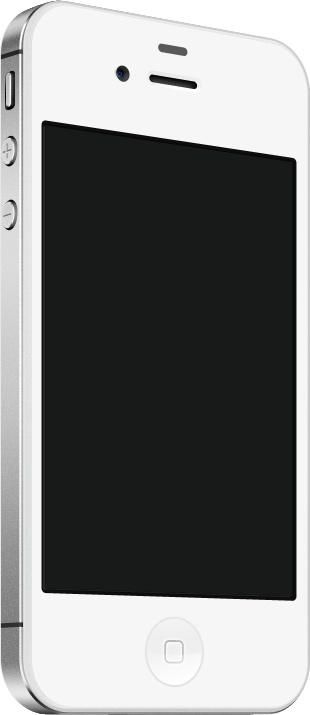
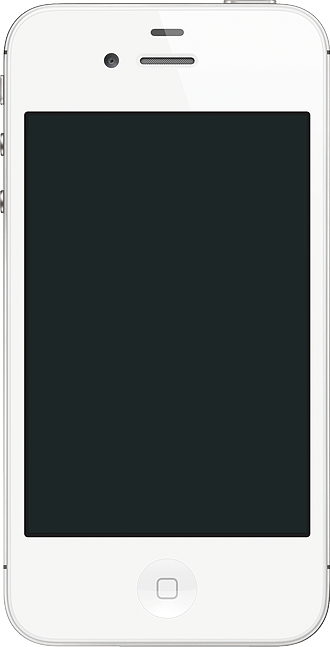
Changed iPhone image to a head-on shot

diff --git a/static/css/homepage.css b/static/css/homepage.css
@@ -22,11 +22,8 @@
     position: relative;
     background-repeat: no-repeat;
     float: left;
-    width: 310px;
+    width: 330px;
     height: 675px; /* iPhone graphic is 715px tall */
-    -o-perspective: 600px;
-    -moz-perspective: 600px;
-    -webkit-perspective: 600px;
     perspective: 600px;
     overflow: hidden;
     cursor: pointer;
@@ -37,23 +34,16 @@
     background-repeat: no-repeat;
     top: 0;
     left: 0;
-    width: 310px;
-    height: 715px;
+    width: 330px;
+    height: 675px;
     z-index: 99;
 }
 
 #iphone video {
     position: absolute;
-    top: 124px;
-    left: 45px;
+    top: 115px;
+    left: 28px;
     z-index: 98;
-    -o-transform-origin: 0 0;
-    -moz-transform-origin: 0 0;
-    -webkit-transform-origin: 0 0;
-    transform-origin: 0 0;
-    -moz-transform: scaleY(1.188) rotateY(10deg) skewY(5.3deg);
-    -webkit-transform: scaleY(1.188) rotateY(9deg) skewY(4.7deg);
-    transform: scaleY(1.188) rotateY(9deg) skewY(4.7deg);
 }
 
 /* App Details

diff --git a/templates/index.html b/templates/index.html
@@ -9,7 +9,7 @@
         <!-- iPHONE PREVIEW -->
         <div id="iphone" style="background-image: url('/static/images/homepage/iphone.png?v={{ version }}');">
             <div id="iphone-glare" style="background-image: url('/static/images/homepage/iphone_glare.png?v={{ version }}');"></div>
-            <video width="261" autoplay="autoplay" loop="loop" poster="/static/movies/poster.jpg?v={{ version }}">
+            <video width="279" autoplay="autoplay" loop="loop" poster="/static/movies/poster.jpg?v={{ version }}">
                 <source src="/static/movies/screencast.mp4?v={{ version }}" type="video/mp4" />
                 <source src="/static/movies/screencast.ogv?v={{ version }}" type="video/ogg" />
             </video>
